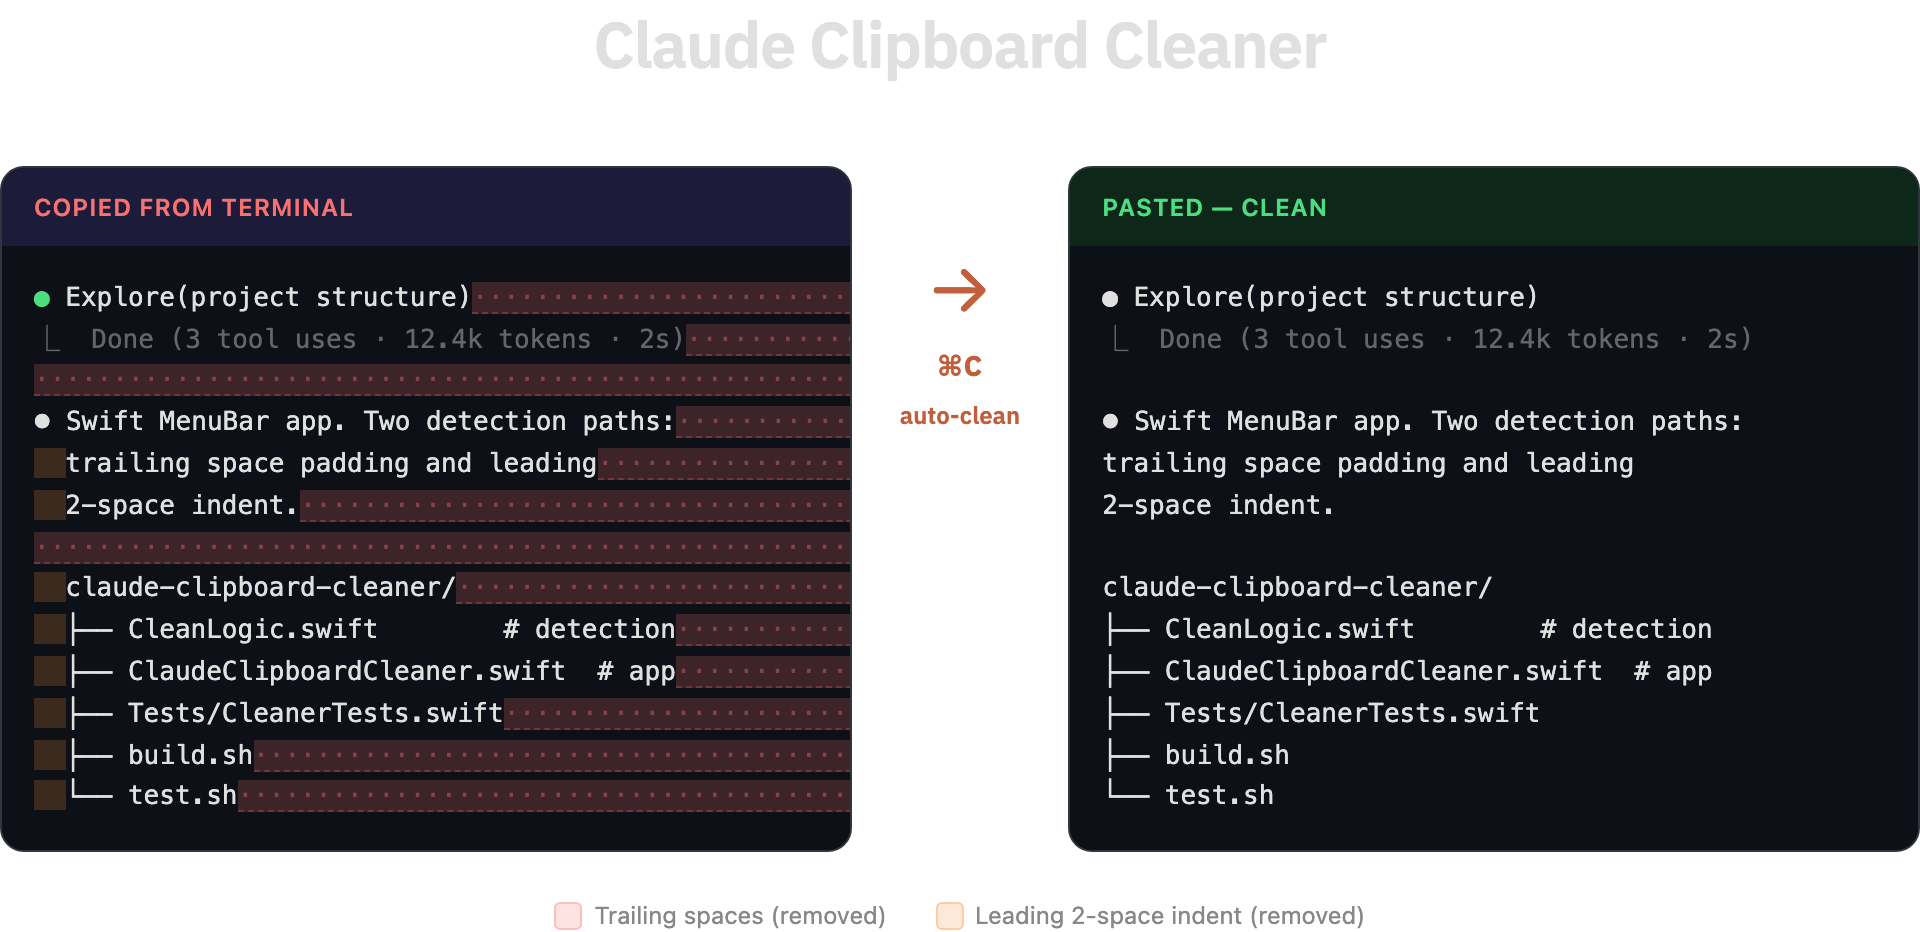
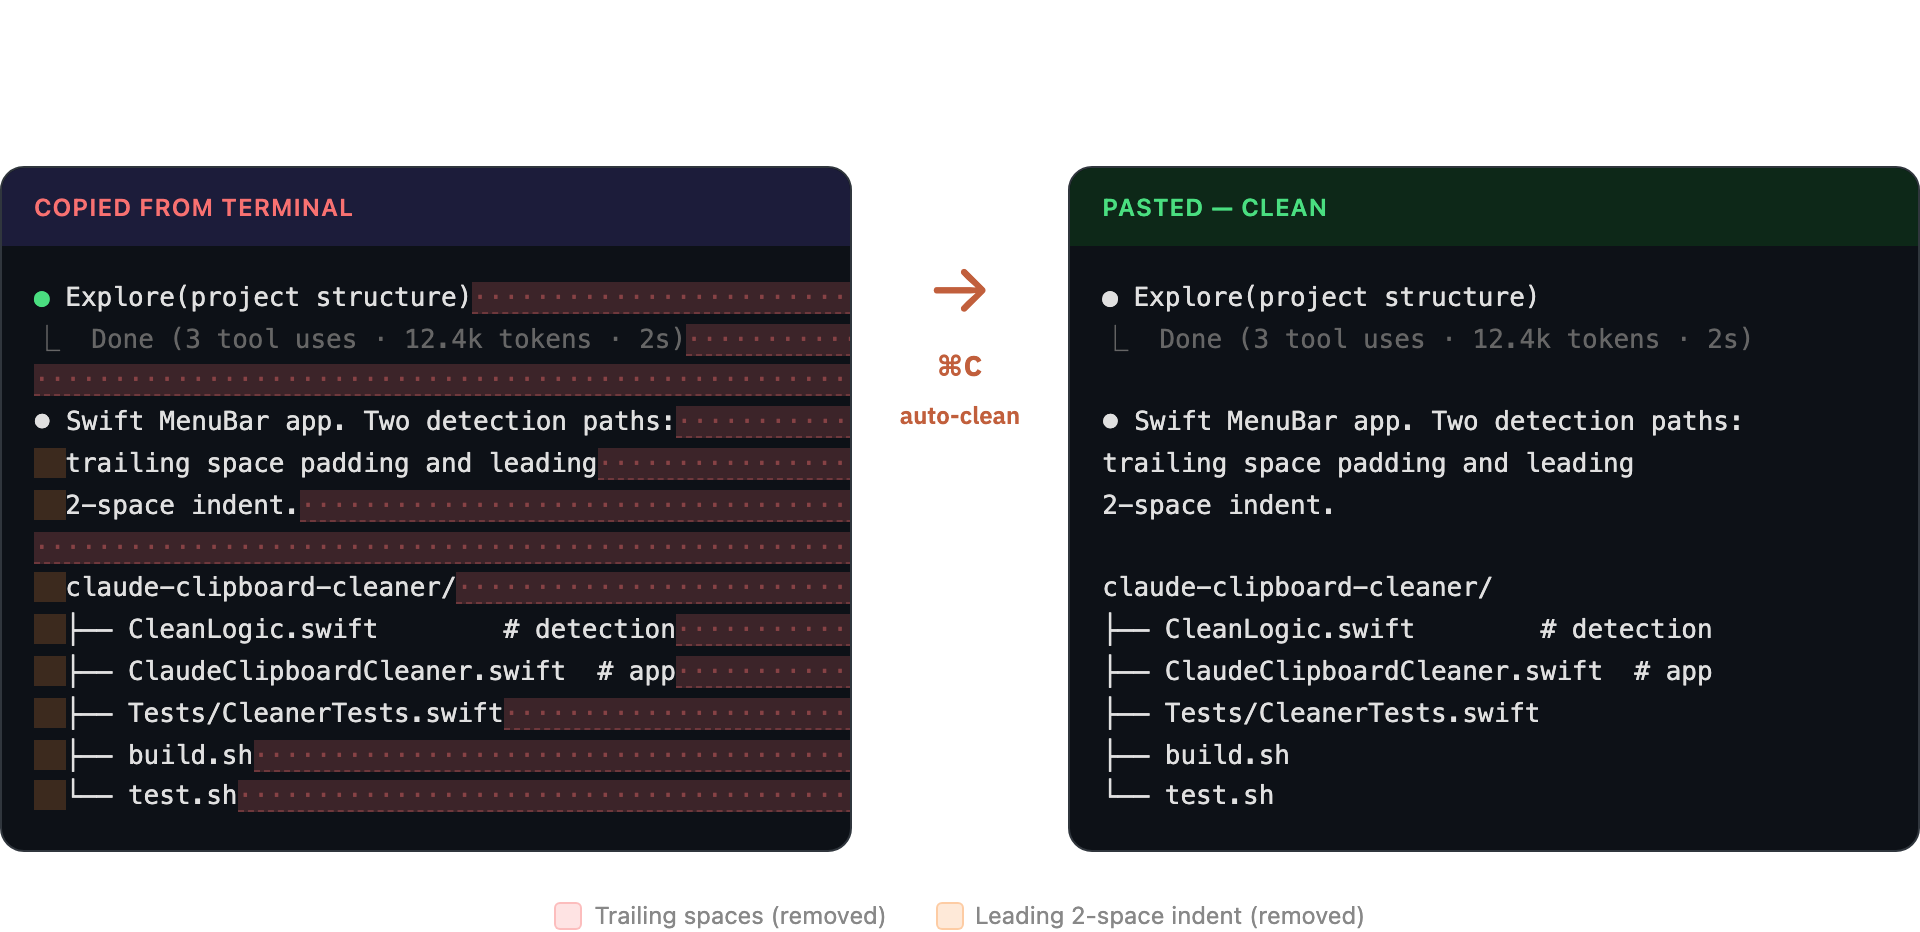
docs: increase screenshot padding

Changed region(s): [[0.3125, 0.0, 0.6875, 0.0933]]

diff --git a/docs/demo.html b/docs/demo.html
@@ -17,7 +17,7 @@
     justify-content: center;
     align-items: center;
     min-height: 100vh;
-    padding: 40px 20px;
+    padding: 60px 20px;
   }
   .container {
     max-width: 960px;
